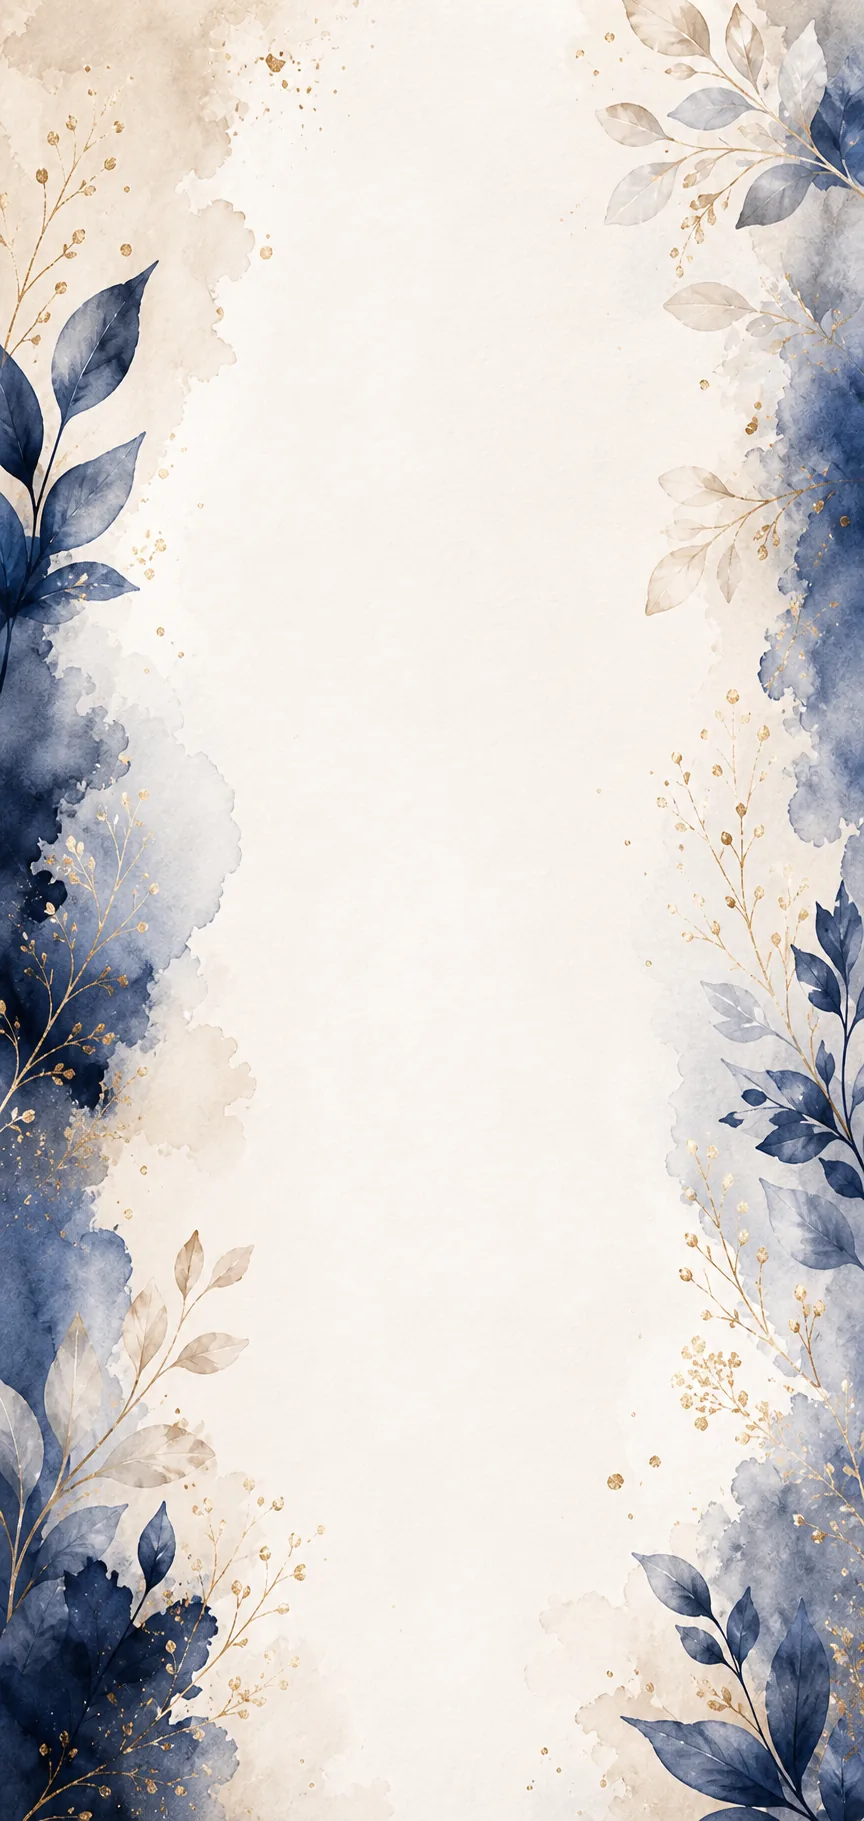
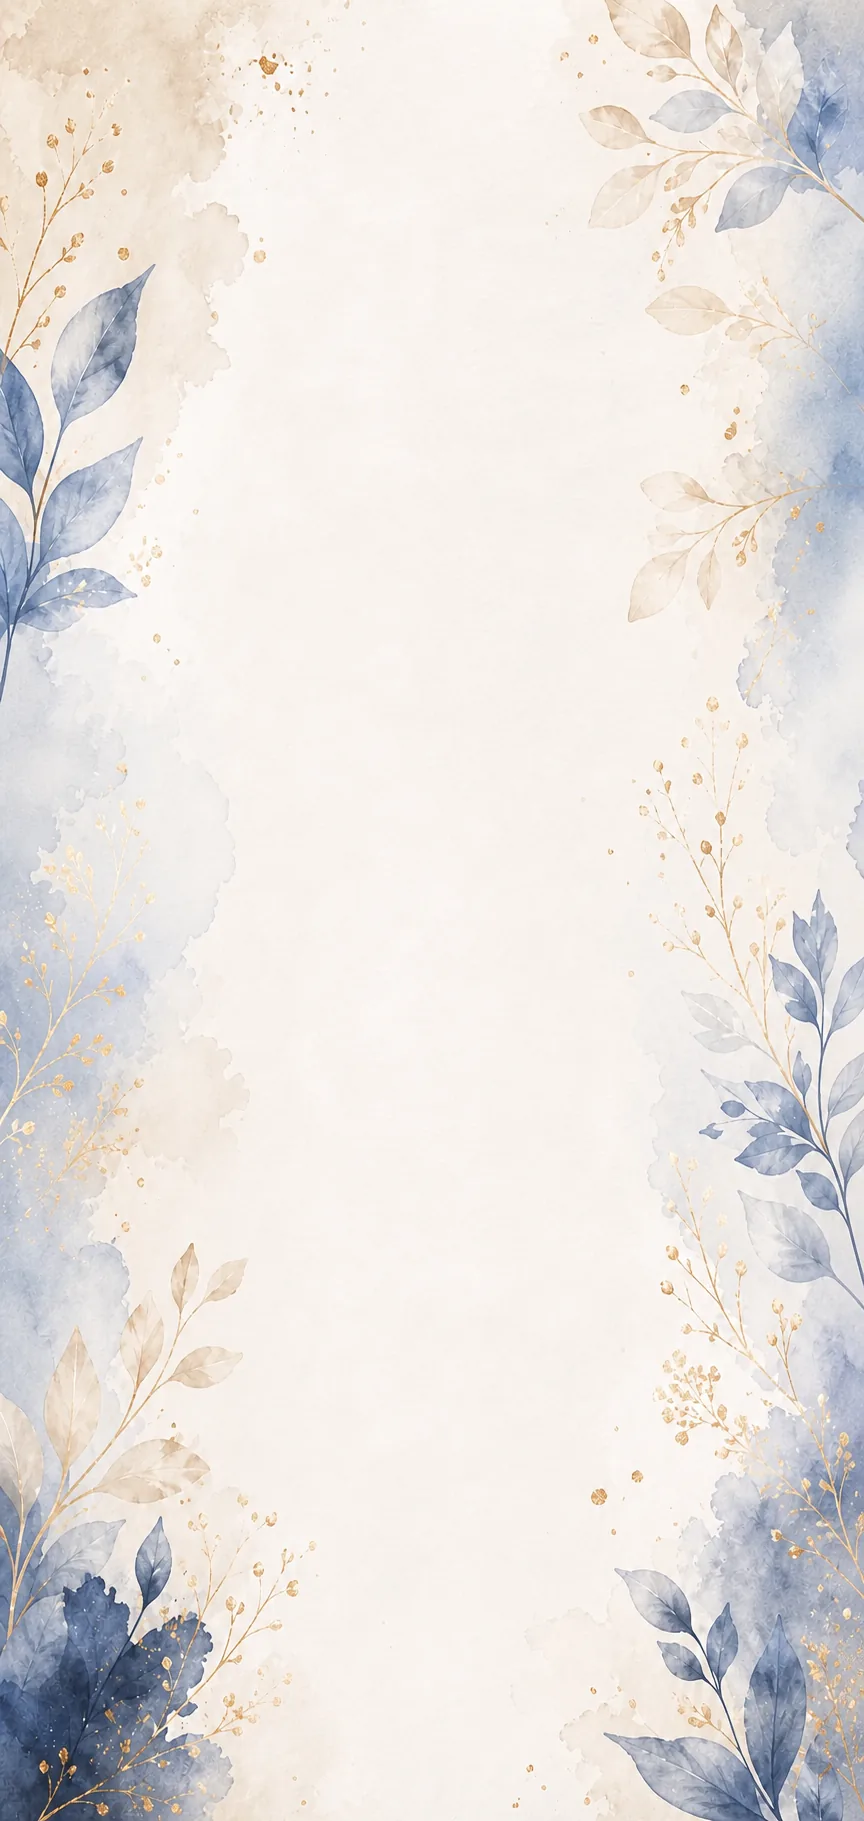
feat(royal): adopt Soft A mobile background

diff --git a/src/assets/themes/royal/backgrounds/README.md b/src/assets/themes/royal/backgrounds/README.md
@@ -17,6 +17,16 @@ el scroll. Admin no consume estos assets.
 Los PNG originales no forman parte del bundle. La variante intermedia es una composición hermana generada
 específicamente para tablet; no es un recorte automático de los masters existentes.
 
+### Revisión móvil Royal Soft A
+
+Producto aprobó `Royal Soft A` como apertura móvil oficial el 2026-08-03. La revisión conserva la composición, el
+papel marfil, la botánica y los acentos champagne de `BG-ROYAL-001`, pero transforma las masas azul marino laterales en
+azul pizarra empolvado y azul niebla. El ajuste protege la lectura del countdown en pantallas estrechas desde el propio
+arte, sin tarjetas, halos, overlays ni excepciones de layout.
+
+El master aprobado mantiene las dimensiones oficiales de `864 × 1821 px`. Su WebP de producción usa calidad 82 y la
+copia JPEG de seguridad conserva calidad 92.
+
 ## Módulos de cuerpo de la prueba
 
 | Variante                 | Dimensiones | Entrega          | Uso                                       |
@@ -44,7 +54,8 @@ entrar en el bundle ni utilizarse como base de nuevas variantes sin una nueva ap
 ## Procedencia
 
 - Herramienta: generador de imágenes integrado de Codex.
-- Fecha del baseline: 2026-07-20. Variante tablet: 2026-07-28. Módulos de cuerpo: 2026-07-29.
+- Fecha del baseline: 2026-07-20. Variante tablet: 2026-07-28. Módulos de cuerpo: 2026-07-29. Revisión móvil
+  `Royal Soft A`: 2026-08-03.
 - Tipo: obra generada específicamente para Nartea; no contiene assets ni texto de las referencias de producto.
 - Dirección: mocks aportados por producto y principios de `docs/02-design/BACKGROUNDS.md`.
 

diff --git a/docs/02-design/BACKGROUNDS.md b/docs/02-design/BACKGROUNDS.md
@@ -163,6 +163,11 @@ HTML y el fondo puede crecer independientemente del idioma o de la altura total.
 Royal recibió aprobación de producto el 2026-07-29. Boho, Dark, Magnolia y Linen adoptan desde esa fecha el mismo
 contrato de apertura y cuerpo, manteniendo una dirección artística propia y tres composiciones responsive.
 
+La apertura móvil de Royal recibió una revisión cromática aprobada el 2026-08-03 bajo el nombre `Royal Soft A`. La
+composición sigue perteneciendo a `BG-ROYAL-001`, pero sus azules laterales son más claros y menos saturados para
+proteger la legibilidad del countdown en pantallas estrechas. La solución vive en el asset; no introduce superficies,
+overlays ni reglas de contraste específicas en los componentes.
+
 ### Candidatos descartados
 
 - `BG-ROYAL-002`, canvas continuo, se descartó porque su ajuste a alturas variables deformaba la ilustración y se
